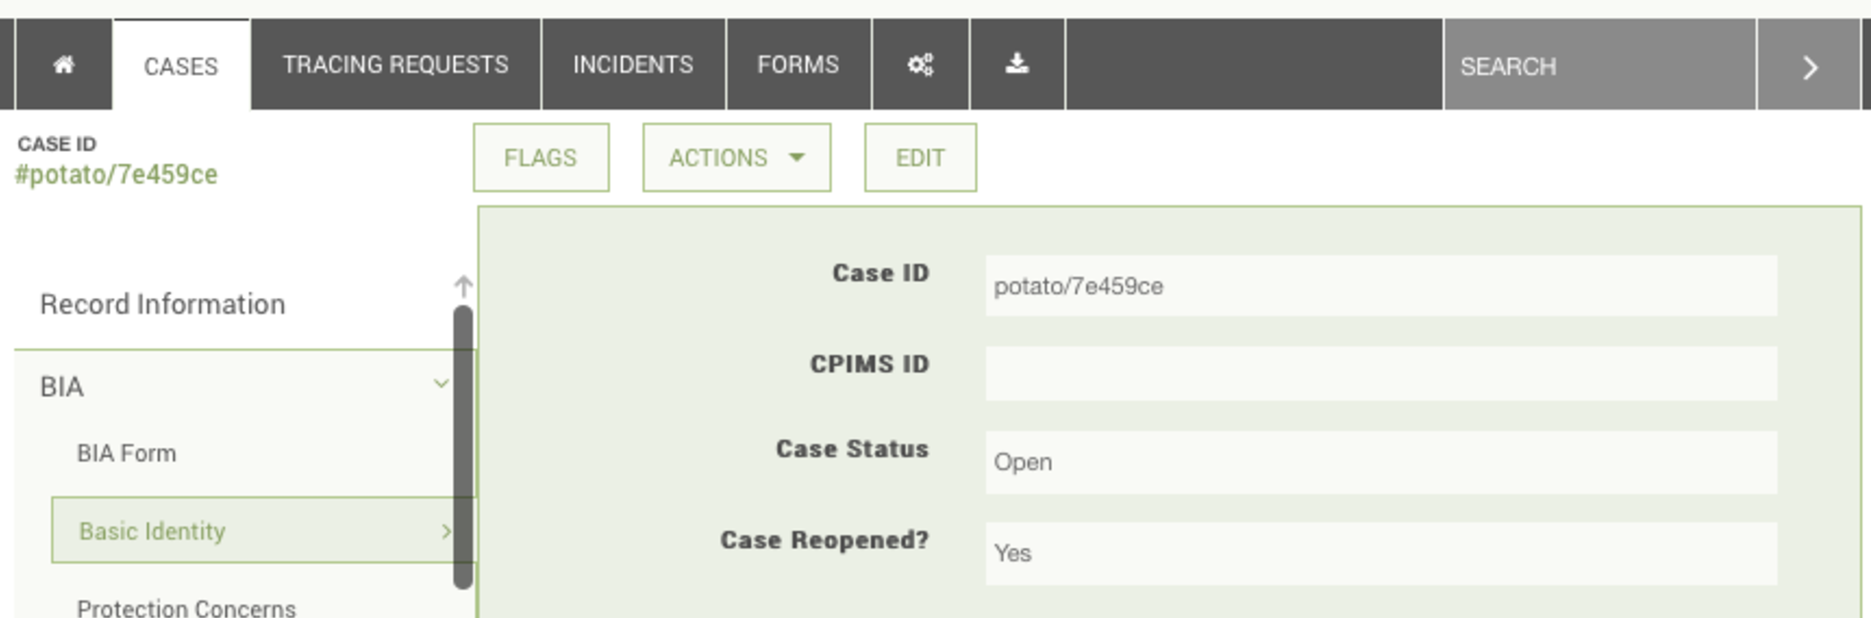
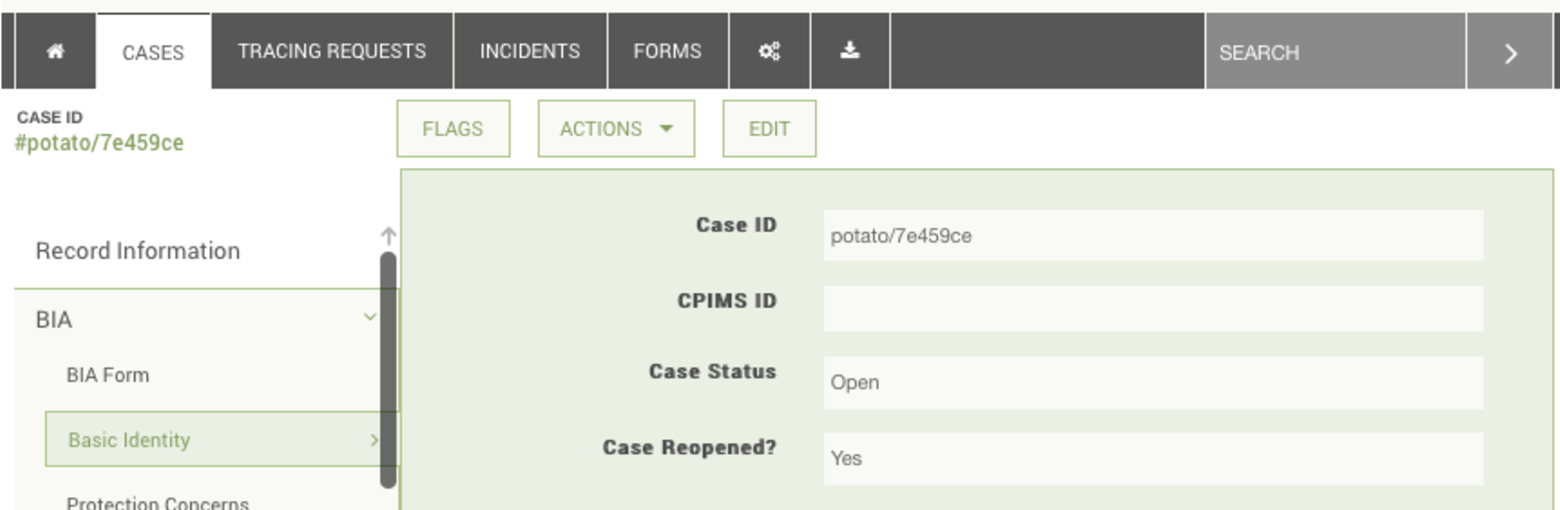
Re-sizing images, re-aligning some text.

diff --git a/UsersGuide.md b/UsersGuide.md
@@ -500,7 +500,8 @@ up every two weeks. To do this, click on the “Protection Concerns” Form
 Section, under the “Identification / Registration” Form Group and check  
 the “Generate follow up reminders?” tick box. If you click save, Primero  
 will automatically create a flag \(to be discussed later\) on the case for  
-you, once every two weeks, which will remind you to perform a follow up. This feature may or may not be turned on.
+you, once every two weeks, which will remind you to perform a follow up.
+This feature may or may not be turned on.
 
 # Transfers and Referrals
 
@@ -553,7 +554,19 @@ Primero system.
 
 ## Accepting or Rejecting Transfers
 
-Based on the deployment, you may have the ability to accept or reject a case that has been transferred to you. You will be able to see if any cases have been transferred to on your dashboard. If you click on the Referrals and Transfers form for the case that has been transferred to you, you will see that the status is in progress and that there are buttons to either accept or reject the transfer. If you click to accept the case, the status will change to accepted, and you will become the record owner, rather than an “other assigned user”. The record information is updated with this change. If you click Reject, it brings up a dialog box with an OK button and a textbox to enter the Rejection Reason. When you click OK, the rejection reason is saved to the nested subform. The status is changed to 'rejected, and you are removed from 'other assigned users' and no longer have access to the record.
+Based on the deployment, you may have the ability to accept or reject a
+case that has been transferred to you. You will be able to see if any
+cases have been transferred to on your dashboard. If you click on the
+Referrals and Transfers form for the case that has been transferred to
+you, you will see that the status is in progress and that there are
+buttons to either accept or reject the transfer. If you click to accept
+the case, the status will change to accepted, and you will become the
+record owner, rather than an “other assigned user”. The record information
+is updated with this change. If you click Reject, it brings up a dialog
+box with an OK button and a textbox to enter the Rejection Reason. When
+you click OK, the rejection reason is saved to the nested subform. The
+status is changed to 'rejected, and you are removed from 'other assigned
+users' and no longer have access to the record.
 
 ![](img/image81.png)
 
@@ -599,7 +612,13 @@ Primero system.
 
 ## Relinquishing Referral
 
-Based on the deployment, you may have the ability to relinquish a case that has been referred to you. You can see if any cases have been referred to you on your dashboard. When you click on the Referrals and Transfers form for the case that has been referred to you, you will see a DONE button next to the referral that has been made to you. If you are done reviewing the case, you can click the done button. Once clicked, it will be removed from your case list and you will no longer have access to it.
+Based on the deployment, you may have the ability to relinquish a case that
+has been referred to you. You can see if any cases have been referred to you
+on your dashboard. When you click on the Referrals and Transfers form for the
+case that has been referred to you, you will see a DONE button next to the
+referral that has been made to you. If you are done reviewing the case, you
+can click the done button. Once clicked, it will be removed from your case
+list and you will no longer have access to it.
 
 ![](img/image82.png)
 
